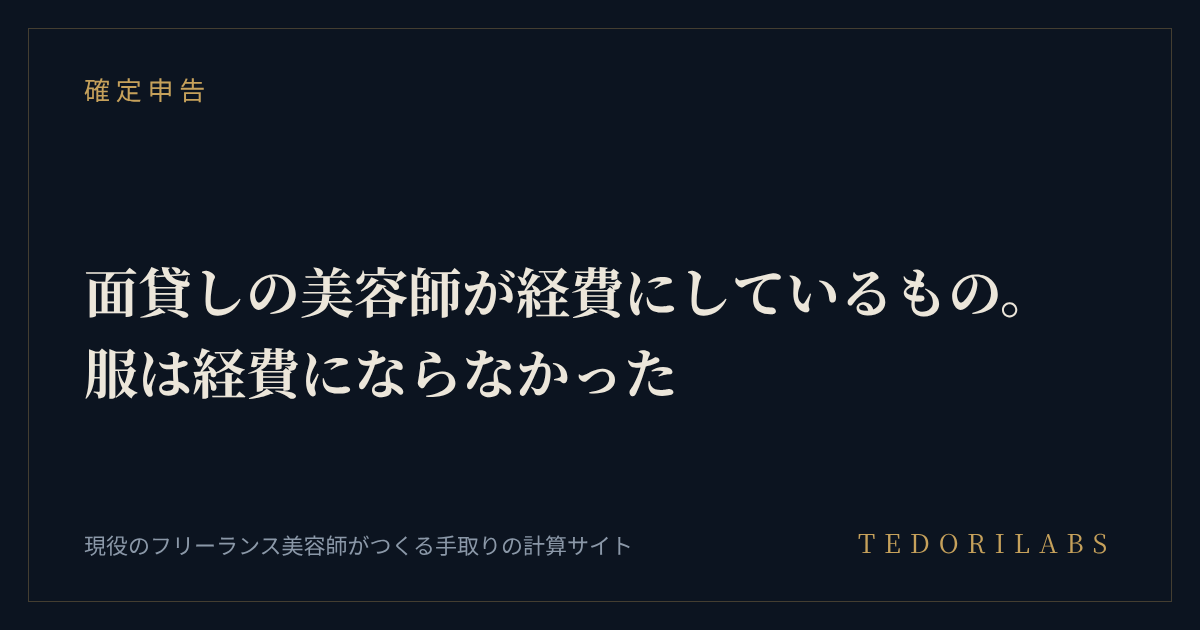
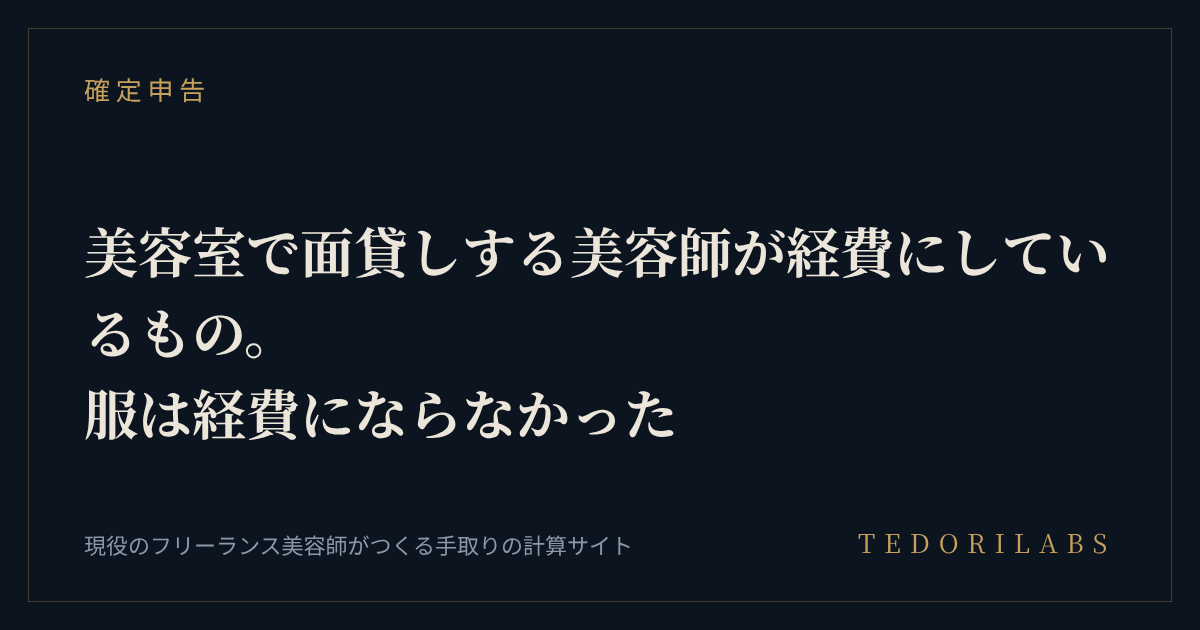
経費・確定申告・控除の記事に「美容室・美容院」の言葉を追加
Claude-Session: https://claude.ai/code/session_01SrkxJxNn9hhaydakdwRiaq

Changed region(s): [[0.0617, 0.3619, 0.925, 0.6937]]

diff --git a/articles/biyoushi-keihi.html b/articles/biyoushi-keihi.html
@@ -3,18 +3,18 @@
 <head>
 <meta charset="UTF-8">
 <meta name="viewport" content="width=device-width, initial-scale=1">
-<title>面貸しの美容師が経費にしているもの。服は経費にならなかった｜tedorilabs</title>
-<meta name="description" content="面貸しで働く現役の美容師が、実際に経費にしているもの（材料費・車・家賃・ハサミ・ウィッグ・講習費・オンラインサロン・通信費）と、経費にできなかった服についてまとめました。カードと会計ソフトを連携させた経費の管理方法も紹介します。">
+<title>美容室で面貸しする美容師が経費にしているもの。服は経費にならなかった｜tedorilabs</title>
+<meta name="description" content="美容室・美容院で面貸し（業務委託）として働く現役の美容師が、実際に経費にしているもの（材料費・車・家賃・ハサミ・ウィッグ・講習費・オンラインサロン・通信費）と、経費にできなかった服についてまとめました。カードと会計ソフトを連携させた経費の管理方法も紹介します。">
 <link rel="canonical" href="https://tedorilabs.com/articles/biyoushi-keihi">
-<meta property="og:title" content="面貸しの美容師が経費にしているもの。服は経費にならなかった">
-<meta property="og:description" content="材料費・車・家賃・ハサミ・ウィッグ・講習費・通信費。現役の面貸し美容師が実際に経費にしているものと、経費にできなかったもの。">
+<meta property="og:title" content="美容室で面貸しする美容師が経費にしているもの。服は経費にならなかった">
+<meta property="og:description" content="材料費・車・家賃・ハサミ・ウィッグ・講習費・通信費。美容室で面貸しする現役の美容師が実際に経費にしているものと、経費にできなかったもの。">
 <meta property="og:type" content="article">
 <meta property="og:url" content="https://tedorilabs.com/articles/biyoushi-keihi">
 <meta property="og:image" content="https://tedorilabs.com/og/biyoushi-keihi.png">
 <meta property="og:site_name" content="tedorilabs">
 <meta name="twitter:card" content="summary_large_image">
 <meta name="twitter:site" content="@tedorilabs">
-<script type="application/ld+json">{"@context": "https://schema.org", "@type": "Article", "headline": "面貸しの美容師が経費にしているもの。服は経費にならなかった", "description": "面貸しで働く現役の美容師が、実際に経費にしているもの（材料費・車・家賃・ハサミ・ウィッグ・講習費・オンラインサロン・通信費）と、経費にできなかった服についてまとめました。カードと会計ソフトを連携させた経費の管理方法も紹介します。", "image": "https://tedorilabs.com/og/biyoushi-keihi.png", "datePublished": "2026-10-31", "dateModified": "2026-11-11", "mainEntityOfPage": "https://tedorilabs.com/articles/biyoushi-keihi", "author": {"@type": "Organization", "name": "tedorilabs", "url": "https://tedorilabs.com/"}, "publisher": {"@type": "Organization", "name": "tedorilabs", "url": "https://tedorilabs.com/"}}</script>
+<script type="application/ld+json">{"@context": "https://schema.org", "@type": "Article", "headline": "美容室で面貸しする美容師が経費にしているもの。服は経費にならなかった", "description": "面貸しで働く現役の美容師が、実際に経費にしているもの（材料費・車・家賃・ハサミ・ウィッグ・講習費・オンラインサロン・通信費）と、経費にできなかった服についてまとめました。カードと会計ソフトを連携させた経費の管理方法も紹介します。", "image": "https://tedorilabs.com/og/biyoushi-keihi.png", "datePublished": "2026-10-31", "dateModified": "2026-11-17", "mainEntityOfPage": "https://tedorilabs.com/articles/biyoushi-keihi", "author": {"@type": "Organization", "name": "tedorilabs", "url": "https://tedorilabs.com/"}, "publisher": {"@type": "Organization", "name": "tedorilabs", "url": "https://tedorilabs.com/"}}</script>
 <link rel="preconnect" href="https://fonts.googleapis.com">
 <link rel="preconnect" href="https://fonts.gstatic.com" crossorigin>
 <link href="https://fonts.googleapis.com/css2?family=Shippori+Mincho+B1:wght@500;700&family=Zen+Kaku+Gothic+New:wght@400;500;700&family=Bodoni+Moda:opsz,wght@6..96,400&display=swap" rel="stylesheet">
@@ -114,13 +114,13 @@ th,td{white-space:nowrap}
 
 <header class="hd">
   <p class="kicker">確定申告</p>
-  <h1>面貸しの美容師が経費にしているもの。<br>服は経費にならなかった</h1>
+  <h1>美容室で面貸しする美容師が<br>経費にしているもの。<br>服は経費にならなかった</h1>
   <p class="meta">2026年10月　／　フリーランス美容師（面貸し）</p>
 </header>
 
 <p class="disc">本記事には広告（アフィリエイトリンク）が含まれます。</p>
 
-<p>業務委託やフリーランスの美容師になると、「これって経費になるの？」と迷うものがたくさん出てきます。この記事では、面貸しで働いている私が実際に経費にしているものと、逆に経費にできなかったものをまとめます。</p>
+<p>美容室・美容院で業務委託やフリーランスとして働くようになると、「これって経費になるの？」と迷うものがたくさん出てきます。この記事では、面貸しで働いている私が実際に経費にしているものと、逆に経費にできなかったものをまとめます。</p>
 
 <p>経費を計上すると税金がいくら変わるのかは、<a href="./keihi-72man">経費を275万円計上したら税金が72万円変わった話</a>で、自分の確定申告書の実数を使って計算しています。</p>
 

diff --git a/articles/kakuteishinkoku-hajimete.html b/articles/kakuteishinkoku-hajimete.html
@@ -4,17 +4,17 @@
 <meta charset="UTF-8">
 <meta name="viewport" content="width=device-width, initial-scale=1">
 <title>業務委託の美容師、初めての確定申告。つまずくのは「何の経費か分からない」｜tedorilabs</title>
-<meta name="description" content="業務委託・面貸しの美容師が初めての確定申告でやることを、流れに沿ってまとめました。薬剤・ハサミ・ガソリン代・席代・講習費などがどの勘定科目に入るかの早見表と、経費にならないもの（国保・国民年金など）、打ち込みを楽にする方法も紹介します。">
+<meta name="description" content="美容室・美容院で業務委託・面貸しとして働く美容師が、初めての確定申告でやることを、流れに沿ってまとめました。薬剤・ハサミ・ガソリン代・席代・講習費などがどの勘定科目に入るかの早見表と、経費にならないもの（国保・国民年金など）、打ち込みを楽にする方法も紹介します。">
 <link rel="canonical" href="https://tedorilabs.com/articles/kakuteishinkoku-hajimete">
 <meta property="og:title" content="業務委託の美容師、初めての確定申告。つまずくのは「何の経費か分からない」">
-<meta property="og:description" content="薬剤、ハサミ、ガソリン代、席代、講習費。美容師がよく払うものがどの科目に入るかの早見表つき。">
+<meta property="og:description" content="薬剤、ハサミ、ガソリン代、席代、講習費。美容室で働く美容師がよく払うものがどの科目に入るかの早見表つき。">
 <meta property="og:type" content="article">
 <meta property="og:url" content="https://tedorilabs.com/articles/kakuteishinkoku-hajimete">
 <meta property="og:image" content="https://tedorilabs.com/og/kakuteishinkoku-hajimete.png">
 <meta property="og:site_name" content="tedorilabs">
 <meta name="twitter:card" content="summary_large_image">
 <meta name="twitter:site" content="@tedorilabs">
-<script type="application/ld+json">{"@context": "https://schema.org", "@type": "Article", "headline": "業務委託の美容師、初めての確定申告。つまずくのは「何の経費か分からない」", "description": "業務委託・面貸しの美容師が初めての確定申告でやることを、流れに沿ってまとめました。薬剤・ハサミ・ガソリン代・席代・講習費などがどの勘定科目に入るかの早見表と、経費にならないもの（国保・国民年金など）、打ち込みを楽にする方法も紹介します。", "image": "https://tedorilabs.com/og/kakuteishinkoku-hajimete.png", "datePublished": "2026-11-11", "dateModified": "2026-11-11", "mainEntityOfPage": "https://tedorilabs.com/articles/kakuteishinkoku-hajimete", "author": {"@type": "Organization", "name": "tedorilabs", "url": "https://tedorilabs.com/"}, "publisher": {"@type": "Organization", "name": "tedorilabs", "url": "https://tedorilabs.com/"}}</script>
+<script type="application/ld+json">{"@context": "https://schema.org", "@type": "Article", "headline": "業務委託の美容師、初めての確定申告。つまずくのは「何の経費か分からない」", "description": "業務委託・面貸しの美容師が初めての確定申告でやることを、流れに沿ってまとめました。薬剤・ハサミ・ガソリン代・席代・講習費などがどの勘定科目に入るかの早見表と、経費にならないもの（国保・国民年金など）、打ち込みを楽にする方法も紹介します。", "image": "https://tedorilabs.com/og/kakuteishinkoku-hajimete.png", "datePublished": "2026-11-11", "dateModified": "2026-11-17", "mainEntityOfPage": "https://tedorilabs.com/articles/kakuteishinkoku-hajimete", "author": {"@type": "Organization", "name": "tedorilabs", "url": "https://tedorilabs.com/"}, "publisher": {"@type": "Organization", "name": "tedorilabs", "url": "https://tedorilabs.com/"}}</script>
 <link rel="preconnect" href="https://fonts.googleapis.com">
 <link rel="preconnect" href="https://fonts.gstatic.com" crossorigin>
 <link href="https://fonts.googleapis.com/css2?family=Shippori+Mincho+B1:wght@500;700&family=Zen+Kaku+Gothic+New:wght@400;500;700&family=Bodoni+Moda:opsz,wght@6..96,400&display=swap" rel="stylesheet">
@@ -124,7 +124,7 @@ table.wrap th,table.wrap td{white-space:normal;vertical-align:top}
 
 <p>業務委託になって初めての確定申告で、私がいちばん時間をかけたのは<strong>打ち込み</strong>でした。特に困ったのが、レシートを前にして「これは何の経費に入れればいいのか分からない」という場面です。</p>
 
-<p>この記事では、初めての確定申告の流れと、美容師がよく払うものが<strong>どの科目（勘定科目）に入るのか</strong>の早見表をまとめます。</p>
+<p>この記事では、美容室で業務委託として働く美容師向けに、初めての確定申告の流れと、美容師がよく払うものが<strong>どの科目（勘定科目）に入るのか</strong>の早見表をまとめます。</p>
 
 <h2>確定申告の期間</h2>
 

diff --git a/articles/kojo-ichiran.html b/articles/kojo-ichiran.html
@@ -4,7 +4,7 @@
 <meta charset="UTF-8">
 <meta name="viewport" content="width=device-width, initial-scale=1">
 <title>業務委託の美容師が確定申告で使える控除の一覧。2026年分の変更点も｜tedorilabs</title>
-<meta name="description" content="業務委託・面貸しの美容師が確定申告で使える控除（基礎控除、社会保険料控除、小規模企業共済等掛金控除、生命保険料控除、医療費控除、ふるさと納税など）を、2026年分の変更点とあわせてまとめました。確定申告をするとワンストップ特例が使えない点や、書類のチェックリストも。">
+<meta name="description" content="美容室・美容院で業務委託・面貸しとして働く美容師が確定申告で使える控除（基礎控除、社会保険料控除、小規模企業共済等掛金控除、生命保険料控除、医療費控除、ふるさと納税など）を、2026年分の変更点とあわせてまとめました。確定申告をするとワンストップ特例が使えない点や、書類のチェックリストも。">
 <link rel="canonical" href="https://tedorilabs.com/articles/kojo-ichiran">
 <meta property="og:title" content="業務委託の美容師が確定申告で使える控除の一覧。2026年分の変更点も">
 <meta property="og:description" content="経費とは別に差し引ける控除。基礎控除は最大104万円に。ふるさと納税のワンストップ特例は確定申告をすると使えない点にも注意。">
@@ -14,7 +14,7 @@
 <meta property="og:site_name" content="tedorilabs">
 <meta name="twitter:card" content="summary_large_image">
 <meta name="twitter:site" content="@tedorilabs">
-<script type="application/ld+json">{"@context": "https://schema.org", "@type": "Article", "headline": "業務委託の美容師が確定申告で使える控除の一覧。2026年分の変更点も", "description": "業務委託・面貸しの美容師が確定申告で使える控除（基礎控除、社会保険料控除、小規模企業共済等掛金控除、生命保険料控除、医療費控除、ふるさと納税など）を、2026年分の変更点とあわせてまとめました。確定申告をするとワンストップ特例が使えない点や、書類のチェックリストも。", "image": "https://tedorilabs.com/og/kojo-ichiran.png", "datePublished": "2026-11-14", "dateModified": "2026-11-14", "mainEntityOfPage": "https://tedorilabs.com/articles/kojo-ichiran", "author": {"@type": "Organization", "name": "tedorilabs", "url": "https://tedorilabs.com/"}, "publisher": {"@type": "Organization", "name": "tedorilabs", "url": "https://tedorilabs.com/"}}</script>
+<script type="application/ld+json">{"@context": "https://schema.org", "@type": "Article", "headline": "業務委託の美容師が確定申告で使える控除の一覧。2026年分の変更点も", "description": "業務委託・面貸しの美容師が確定申告で使える控除（基礎控除、社会保険料控除、小規模企業共済等掛金控除、生命保険料控除、医療費控除、ふるさと納税など）を、2026年分の変更点とあわせてまとめました。確定申告をするとワンストップ特例が使えない点や、書類のチェックリストも。", "image": "https://tedorilabs.com/og/kojo-ichiran.png", "datePublished": "2026-11-14", "dateModified": "2026-11-17", "mainEntityOfPage": "https://tedorilabs.com/articles/kojo-ichiran", "author": {"@type": "Organization", "name": "tedorilabs", "url": "https://tedorilabs.com/"}, "publisher": {"@type": "Organization", "name": "tedorilabs", "url": "https://tedorilabs.com/"}}</script>
 <link rel="preconnect" href="https://fonts.googleapis.com">
 <link rel="preconnect" href="https://fonts.gstatic.com" crossorigin>
 <link href="https://fonts.googleapis.com/css2?family=Shippori+Mincho+B1:wght@500;700&family=Zen+Kaku+Gothic+New:wght@400;500;700&family=Bodoni+Moda:opsz,wght@6..96,400&display=swap" rel="stylesheet">

diff --git a/articles/keihi-72man.html b/articles/keihi-72man.html
@@ -4,7 +4,7 @@
 <meta charset="UTF-8">
 <meta name="viewport" content="width=device-width, initial-scale=1">
 <title>経費を275万円計上したら、税金が72万円変わった話｜tedorilabs</title>
-<meta name="description" content="フリーランス美容師が、自分の確定申告書の実数で検証しました。経費を計上した場合としなかった場合で、所得税と住民税の合計は年72万円の差。経費計上の効果を金額で示します。">
+<meta name="description" content="美容室で業務委託として働くフリーランス美容師が、自分の確定申告書の実数で検証しました。経費を計上した場合としなかった場合で、所得税と住民税の合計は年72万円の差。経費計上の効果を金額で示します。">
 <link rel="canonical" href="https://tedorilabs.com/articles/keihi-72man">
 <meta property="og:title" content="経費を275万円計上したら、税金が72万円変わった話">
 <meta property="og:description" content="フリーランス美容師が自分の確定申告書の実数で検証。経費計上の有無で所得税と住民税は年72万円変わりました。">
@@ -14,7 +14,7 @@
 <meta property="og:site_name" content="tedorilabs">
 <meta name="twitter:card" content="summary_large_image">
 <meta name="twitter:site" content="@tedorilabs">
-<script type="application/ld+json">{"@context": "https://schema.org", "@type": "Article", "headline": "経費を275万円計上したら、税金が72万円変わった話", "description": "フリーランス美容師が、自分の確定申告書の実数で検証しました。経費を計上した場合としなかった場合で、所得税と住民税の合計は年72万円の差。経費計上の効果を金額で示します。", "image": "https://tedorilabs.com/og/keihi-72man.png", "datePublished": "2026-08-17", "dateModified": "2026-10-31", "mainEntityOfPage": "https://tedorilabs.com/articles/keihi-72man", "author": {"@type": "Organization", "name": "tedorilabs", "url": "https://tedorilabs.com/"}, "publisher": {"@type": "Organization", "name": "tedorilabs", "url": "https://tedorilabs.com/"}}</script>
+<script type="application/ld+json">{"@context": "https://schema.org", "@type": "Article", "headline": "経費を275万円計上したら、税金が72万円変わった話", "description": "フリーランス美容師が、自分の確定申告書の実数で検証しました。経費を計上した場合としなかった場合で、所得税と住民税の合計は年72万円の差。経費計上の効果を金額で示します。", "image": "https://tedorilabs.com/og/keihi-72man.png", "datePublished": "2026-08-17", "dateModified": "2026-11-17", "mainEntityOfPage": "https://tedorilabs.com/articles/keihi-72man", "author": {"@type": "Organization", "name": "tedorilabs", "url": "https://tedorilabs.com/"}, "publisher": {"@type": "Organization", "name": "tedorilabs", "url": "https://tedorilabs.com/"}}</script>
 <link rel="preconnect" href="https://fonts.googleapis.com">
 <link rel="preconnect" href="https://fonts.gstatic.com" crossorigin>
 <link href="https://fonts.googleapis.com/css2?family=Shippori+Mincho+B1:wght@500;700&family=Zen+Kaku+Gothic+New:wght@400;500;700&family=Bodoni+Moda:opsz,wght@6..96,400&display=swap" rel="stylesheet">

diff --git a/index.html b/index.html
@@ -622,7 +622,7 @@ footer{text-align:center;padding:70px 0 0;font-size:11px;letter-spacing:.34em;te
     </a>
     <a class="art" href="./articles/biyoushi-keihi">
       <span class="art-kicker">確定申告</span>
-      <span class="art-title">面貸しの美容師が経費にしているもの。服は経費にならなかった</span>
+      <span class="art-title">美容室で面貸しする美容師が経費にしているもの。服は経費にならなかった</span>
       <span class="art-ds">材料費・車・家賃、ハサミ、ウィッグ、講習費、オンラインサロン、通信費。現役の面貸し美容師が実際に経費にしているものと、経費にできなかった服の話。カードと会計ソフトを連携させた管理方法も書いています。</span>
     </a>
     <a class="art" href="./articles/aoiro-shiroiro">
